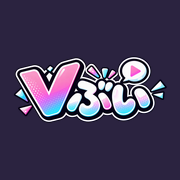
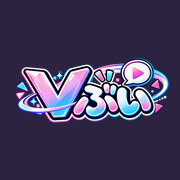
ロゴを新デザインに差し替え
Claude-Session: https://claude.ai/code/session_01MQ8exEH1W1AC6ZnHjsSdjc

Changed region(s): [[0.0833, 0.3056, 0.9444, 0.6944]]

diff --git a/index.html b/index.html
@@ -407,7 +407,7 @@ body.dark-nav .nav button[aria-current="page"]{color:#fff}
   <!-- HOME -->
   <section class="view pad" id="v-home" aria-label="ホーム">
     <div class="top">
-      <div class="logo"><img class="lg" src="logo.png" alt="Vぶい" width="83" height="36"><small>β</small></div>
+      <div class="logo"><img class="lg" src="logo.png" alt="Vぶい" width="77" height="36"><small>β</small></div>
       <div class="sp"></div>
       <button class="iconbtn" aria-label="名鑑で探す" data-go="dir"><svg viewBox="0 0 24 24" fill="none" stroke="currentColor" stroke-width="2" stroke-linecap="round"><circle cx="11" cy="11" r="7"/><path d="m20 20-3.5-3.5"/></svg></button>
     </div>
